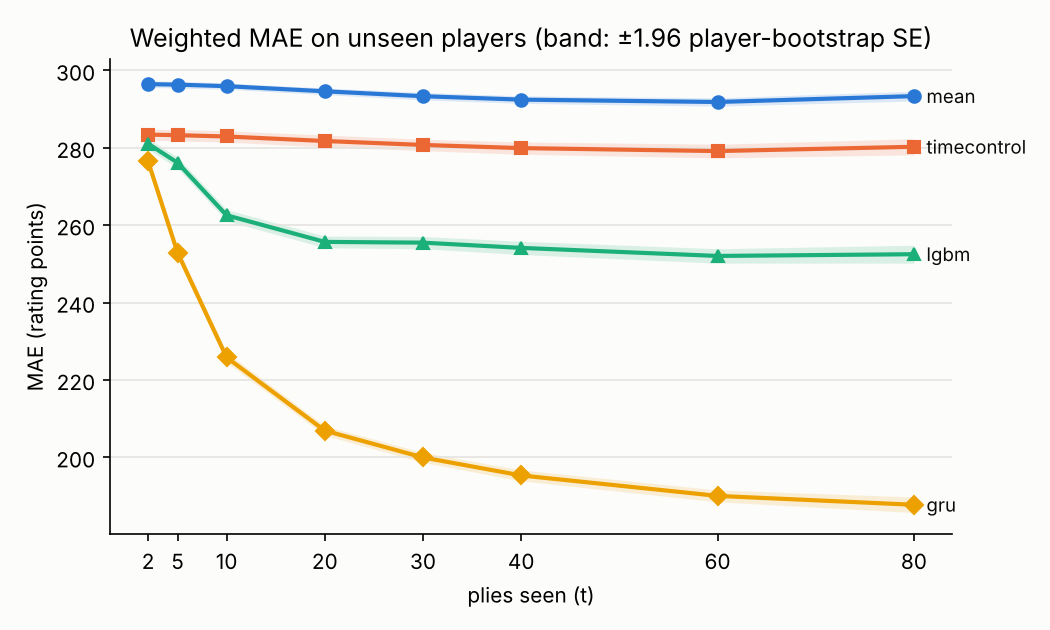
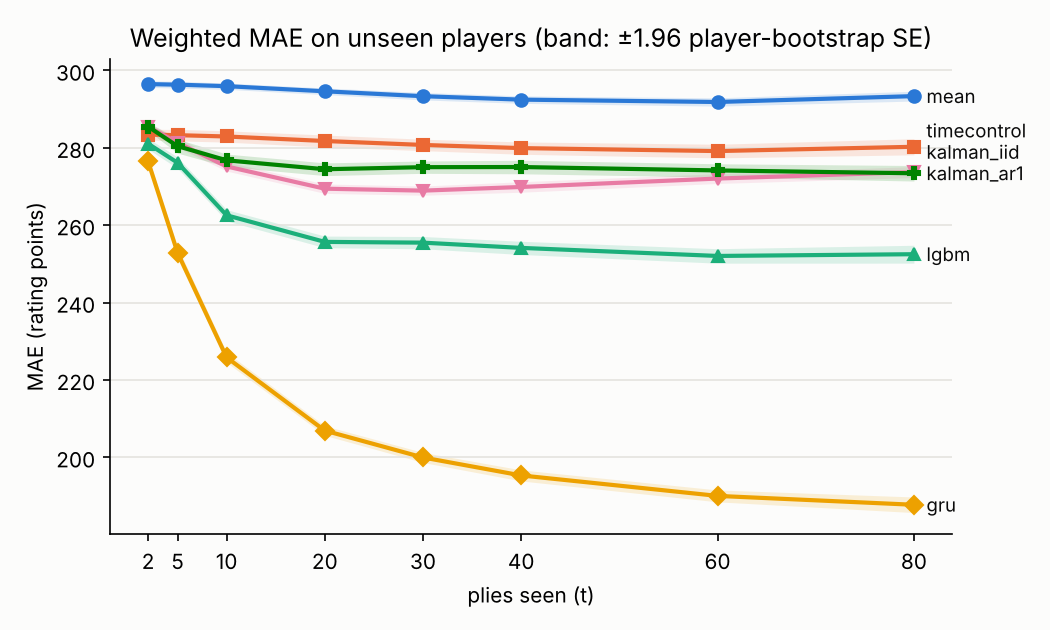
Phase 4: Kalman filters scored; AR(1) errors fix most of the iid overconfidence
kalman_iid's coverage collapses from 0.75 to 0.20 as moves accumulate;
kalman_ar1 (rho 0.979) holds 0.70-0.74. The residual autocorrelation
plateaus (0.958 at lag 10), so the errors act more like a per-player
offset than AR(1). evaluate.py adds results/kalman_coverage.png, keeps
coverage.png to the calibrated models and spaces end labels apart.

Claude-Session: https://claude.ai/code/session_01GANgKQkVHXJETsEnZNLNVT

Changed region(s): [[0.1524, 0.181, 0.9752, 0.3317], [0.1219, 0.181, 0.1524, 0.2111]]

diff --git a/evaluate.py b/evaluate.py
@@ -164,6 +164,7 @@ def by_band(preds, test):
 def plot(metrics, column, path, ylabel, title, band=None, line=None, dashed=None, legend=False):
     fig, ax = plt.subplots(figsize=(7, 4.2), facecolor="#fcfcfb")
     ax.set_facecolor("#fcfcfb")
+    ends = []
     for model, m in metrics.groupby("model", sort=False):
         color = COLORS.get(model, "#52514e")
         ax.plot(m.t, m[column], color=color, lw=2, marker=MARKERS.get(model, "o"), ms=6, label=model)
@@ -171,9 +172,15 @@ def plot(metrics, column, path, ylabel, title, band=None, line=None, dashed=None
             ax.fill_between(m.t, m[column] - 1.96 * m[band], m[column] + 1.96 * m[band], color=color, alpha=0.15, lw=0)
         if dashed:
             ax.plot(m.t, m[dashed], color=color, lw=1.5, ls="--")
-        if not legend:  # direct labels at the line ends
-            ax.annotate(model, (m.t.iloc[-1], m[column].iloc[-1]), xytext=(6, 0), textcoords="offset points",
-                        va="center", color="#0b0b0b", fontsize=9)
+        ends.append([m[column].iloc[-1], model])
+    if not legend:  # direct labels at the line ends, pushed apart where lines end close together
+        low, high = ax.get_ylim()
+        ends.sort()
+        for i in range(1, len(ends)):
+            ends[i][0] = max(ends[i][0], ends[i - 1][0] + 0.045 * (high - low))
+        for y, model in ends:
+            ax.annotate(model, (CHECKPOINTS[-1], y), xytext=(6, 0), textcoords="offset points", va="center",
+                        color="#0b0b0b", fontsize=9, annotation_clip=False)
     if line is not None:
         ax.axhline(line, color="#52514e", lw=1, ls=":")
     ax.set(xlabel="plies seen (t)", ylabel=ylabel, title=title, xticks=CHECKPOINTS)
@@ -208,7 +215,8 @@ def main():
     metrics = metrics[metrics.model.isin(COLORS)]  # other models (gru_v1, the first GRU) stay in the CSVs only
     plot(metrics, "weighted_mae", "results/mae.png", "MAE (rating points)",
          "Weighted MAE on unseen players (band: ±1.96 player-bootstrap SE)", band="se_player")
-    plot(metrics, "weighted_coverage", "results/coverage.png", "share of sides inside the interval",
+    calibrated = metrics[~metrics.model.str.startswith("kalman")]  # the Kalman filters get their own plot below
+    plot(calibrated, "weighted_coverage", "results/coverage.png", "share of sides inside the interval",
          "Coverage of the 90% intervals (solid: weighted, dashed: unweighted)", line=0.9, dashed="coverage",
          legend=True)  # the weighted lines all sit on 0.9, so end labels would collide
     kalman = metrics[metrics.model.isin(["gru", "kalman_iid", "kalman_ar1"])]

diff --git a/test_kalman.py b/test_kalman.py
@@ -57,10 +57,11 @@ def test_autocorrelation_recovers_an_ar1_rho():
 
 
 def test_checkpoint_preds_take_the_sides_own_moves_among_the_first_t_plies():
-    means = np.tile(np.arange(1.0, 41.0), (2, 1))  # one game: White row 0, Black row 1; value = own moves seen
+    # one game: White row 0, Black row 1; value = own moves seen, plus 100 for Black
+    means = np.stack([np.arange(1.0, 41.0), 100 + np.arange(1.0, 41.0)])
     preds = checkpoint_preds(means, np.ones((2, 40)), np.array([7]), np.array([5]))
     at5 = preds[preds.t == 5].set_index("side")["mean"]
-    assert set(preds.t) == {2, 5} and at5["white"] == 3 and at5["black"] == 2
+    assert set(preds.t) == {2, 5} and at5["white"] == 3 and at5["black"] == 102
 
 
 def test_tc_prior_falls_back_for_rare_time_controls():

diff --git a/README.md b/README.md
@@ -7,7 +7,7 @@ Predicts both players' Lichess blitz ratings after every move, with 90% interval
 - [x] Phase 1 — Data, stratified sample, player split (Sampling Theory)
 - [x] Phase 2 — Features, baselines, evaluation
 - [x] Phase 3 — GRU sequence model (Data Mining and Neural Networks)
-- [ ] Phase 4 — State-space filter (Advanced Time Series Analysis)
+- [x] Phase 4 — State-space filter (Advanced Time Series Analysis)
 - [ ] Phase 5 — Latent skill model (Structural Equations)
 - [ ] Phase 6 — Figures and demo app (Data Visualization in Data Science)
 
@@ -71,6 +71,35 @@ On games without evals, which is every live game, the two are equal, and the new
 
 Each version was trained once, and the new run also changed the learning-rate schedule, so differences of a point or two are within what a reseed might move.
 
+### Kalman filters
+
+`kalman.py` treats a player's rating as a constant hidden state and updates it once per own move. It is a classical model of "the estimate sharpens as evidence arrives", set against the GRU.
+- **Prior:** the time control's weighted mean rating and the variance of ratings within it.
+- **Observation per move:** z, a per-move LightGBM prediction of the mover's rating from seconds spent, clock left and ply. It was trained on 2 million random train moves and is taken as z = rating + e, as PLAN.md specifies.
+- **Noise:** var(e) per ply bin comes from val residuals: σ = 338–365 points. That is about the spread of ratings within a time control (350), so a single move says little.
+- **Errors:** `kalman_iid` assumes they are independent. `kalman_ar1` gives them AR(1) correlation between a player's consecutive moves, ρ = 0.979, estimated from val residuals. Its state is augmented with the current error.
+
+Both use model-based Gaussian intervals (mean ± 1.645 sd), so the plot below shows whether each model's own uncertainty is honest.
+
+![Coverage of the Kalman filters](results/kalman_coverage.png)
+
+| plies seen | iid MAE | iid coverage | iid interval | AR(1) MAE | AR(1) coverage | AR(1) interval | GRU MAE | GRU coverage |
+|---|---|---|---|---|---|---|---|---|
+| 2 | 285 | 0.75 | ±415 | 285 | 0.75 | ±415 | 276 | 0.90 |
+| 10 | 275 | 0.49 | ±233 | 277 | 0.74 | ±396 | 226 | 0.90 |
+| 20 | 269 | 0.38 | ±170 | 274 | 0.74 | ±389 | 207 | 0.90 |
+| 80 | 274 | 0.20 | ±90 | 273 | 0.71 | ±365 | 188 | 0.89 |
+
+**Does modelling the error correlation fix the overconfidence? Mostly.** With independent errors, every move counts as fresh evidence. So kalman_iid's interval shrinks to ±90 by ply 80 while its error stays near 270, and coverage collapses to 0.20. With AR(1) errors the interval barely shrinks, and coverage holds at 0.70–0.74.
+
+**Two things still keep it below 0.90:**
+- **The errors behave like a fixed offset per player, not like AR(1).** The residual autocorrelation is still 0.958 at lag 10, where AR(1) with ρ = 0.979 implies 0.806. So even the AR(1) filter forgets old errors too fast, and coverage drifts down from 0.74 to 0.71.
+- **Coverage is only 0.75 already at ply 2,** where both filters have seen one move and are identical. A per-move prediction is pulled toward the average rating, and so is the prior. Their errors therefore move together, while the filter treats them as independent and counts the shared part twice.
+
+Two fixes would follow, neither done here: model the error as a persistent offset plus noise, and calibrate z against the true rating (z = a + b·rating + e) instead of taking it as unbiased.
+
+On error the filters (269–285) sit near `timecontrol` and behind lgbm, far from the GRU, which reads the moves themselves rather than one move's clock use at a time.
+
 ## Limitations
 
 **Predictions are pulled toward the middle.** Here are the GRU's results at ply 80 by the player's own rating (`results/metrics_by_band.csv`):
@@ -101,6 +130,7 @@ python sample.py games
 python baselines.py
 python gru.py 20000   # quick check on 20 000 train games that the loss falls
 python gru.py
+python kalman.py
 python evaluate.py
 pytest
 ```
